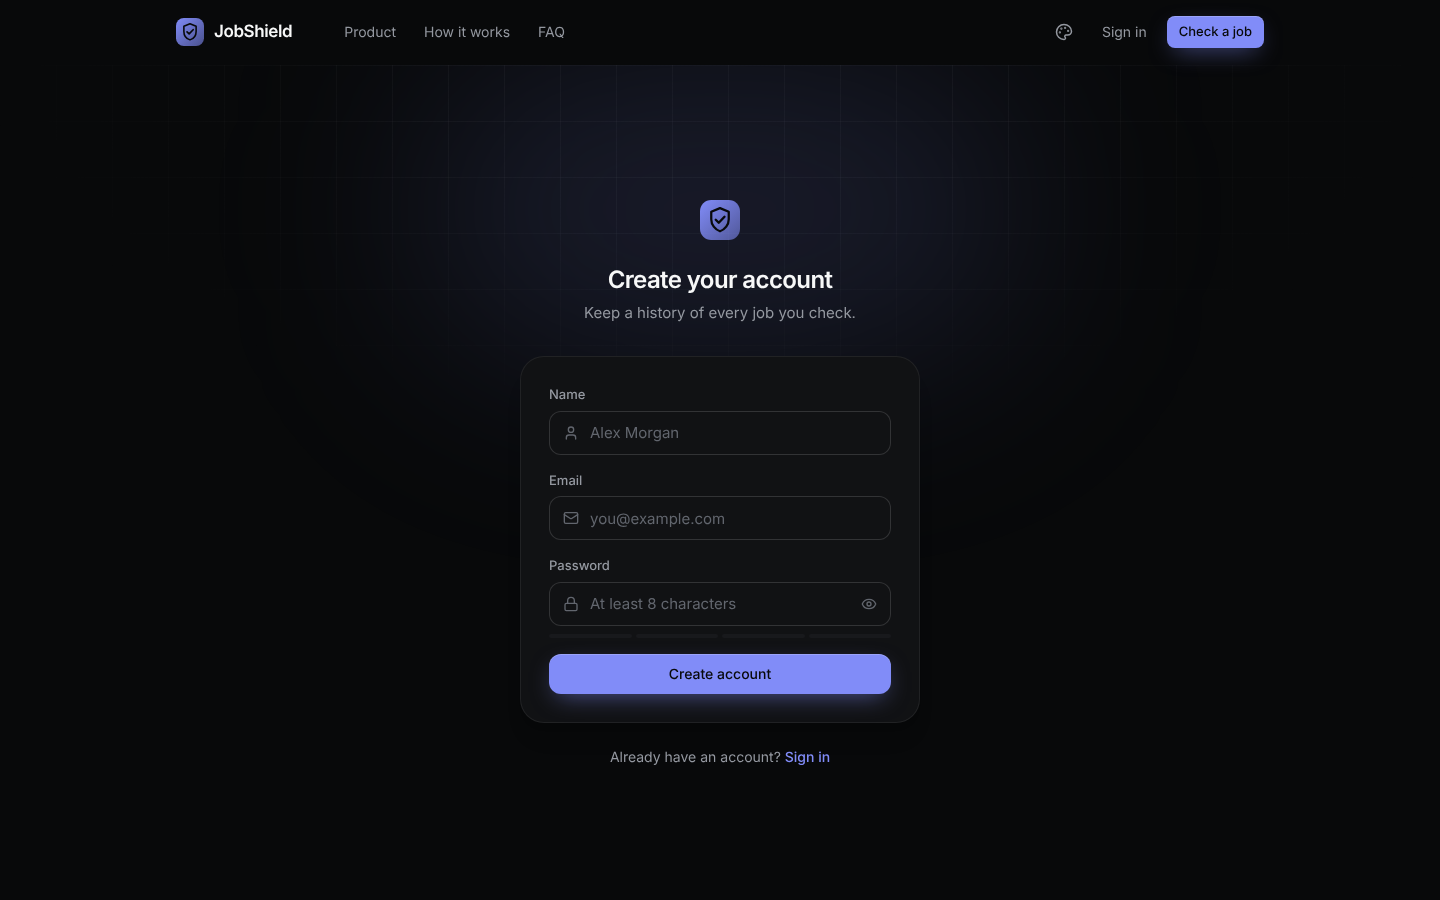
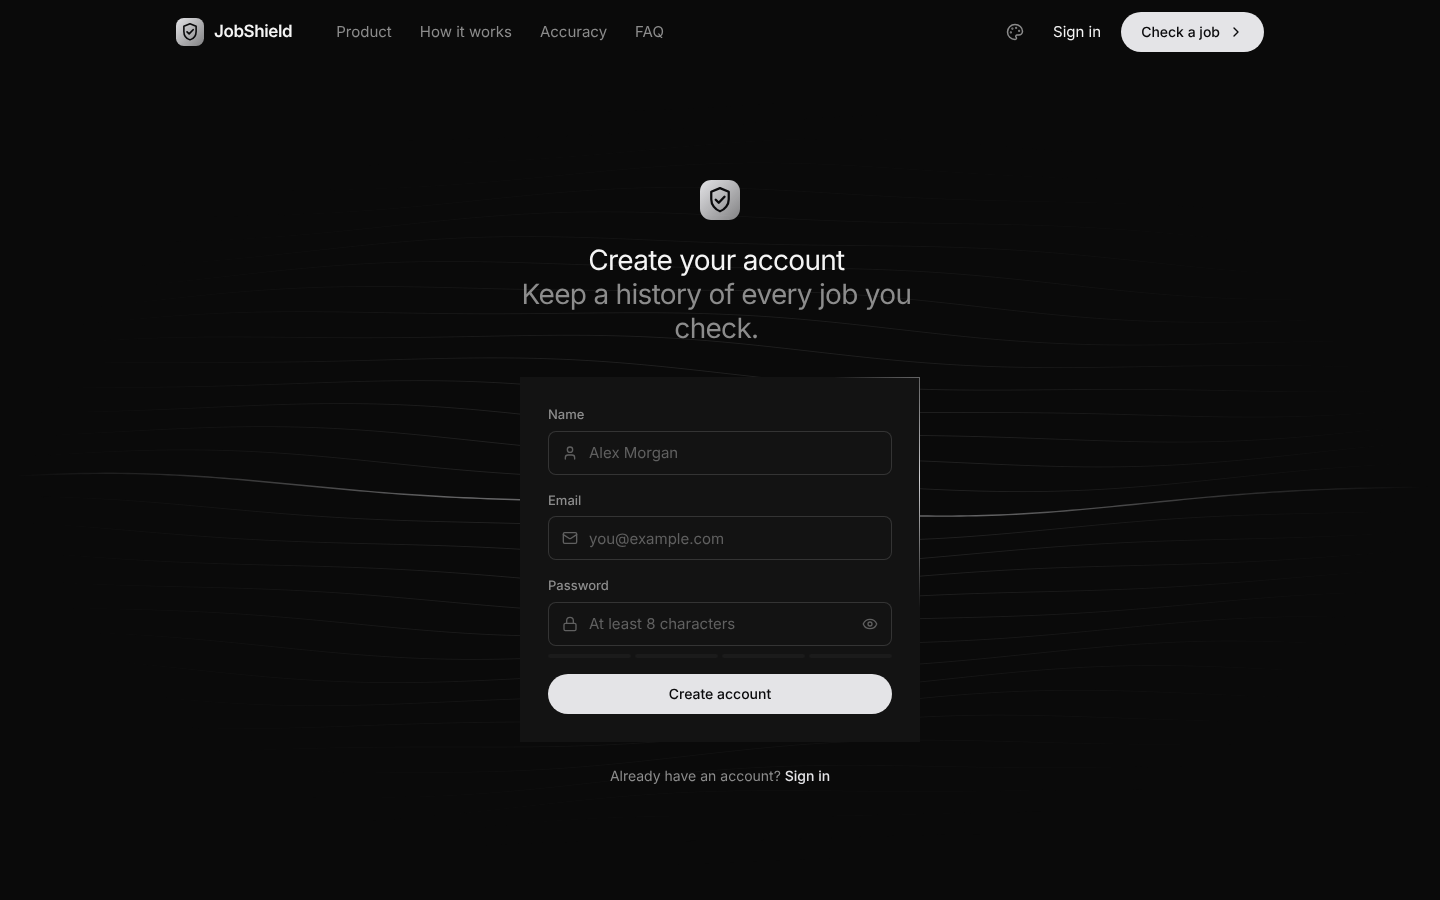
Add all input types to the homepage checker and restyle app pages
- Homepage checker: Link / Text / Screenshot / PDF tabs; uploads open the
  Check a job page on the matching tab.
- Shared editorial PageIntro header (two-tone headline, signal-field
  backdrop, drawn divider) on Check a job, History, Settings and Admin;
  auth and 404 pages use the same signal field and border-beam cards.
- Test setup stubs IntersectionObserver/canvas for the animated pages.

Claude-Session: https://claude.ai/code/session_012R1uQCQ59fuJwwJHrzo2jF

diff --git a/frontend/src/pages/LandingPage.tsx b/frontend/src/pages/LandingPage.tsx
@@ -8,7 +8,9 @@ import {
   CircleAlert,
   CircleCheck,
   CircleX,
+  FileText,
   Globe,
+  ImageIcon,
   Link2,
   Loader2,
   MessageSquareText,
@@ -66,29 +68,65 @@ function useCycle(length: number, ms: number) {
 
 /* ── Hero ─────────────────────────────────────────────────────────────── */
 
+const INPUTS = [
+  { id: 'url', label: 'Link', icon: Link2 },
+  { id: 'text', label: 'Text', icon: MessageSquareText },
+  { id: 'image', label: 'Screenshot', icon: ImageIcon },
+  { id: 'pdf', label: 'PDF', icon: FileText },
+] as const;
+type InputMode = (typeof INPUTS)[number]['id'];
+
 function HeroChecker() {
   const navigate = useNavigate();
-  const [mode, setMode] = useState<'url' | 'text'>('url');
+  const [mode, setMode] = useState<InputMode>('url');
   const [value, setValue] = useState('');
+  const isFile = mode === 'image' || mode === 'pdf';
+
+  function choose(next: InputMode) {
+    // Uploads happen on the Check a job page, opened on the right tab.
+    if (next === 'image' || next === 'pdf') {
+      navigate('/analyze', { state: { mode: next } });
+      return;
+    }
+    setMode(next);
+  }
+
   function submit(e: FormEvent) {
     e.preventDefault();
+    if (isFile) return navigate('/analyze', { state: { mode } });
     navigate('/analyze', { state: { mode, value: value.trim(), autostart: value.trim().length > 0 } });
   }
+
   return (
     <motion.form {...fade} transition={{ ...fade.transition, delay: 0.5 }} onSubmit={submit} className="relative mx-auto mt-12 w-full max-w-2xl">
+      <div className="mb-3 flex flex-wrap justify-center gap-1.5" role="tablist" aria-label="What do you want to check?">
+        {INPUTS.map(({ id, label, icon: Icon }) => (
+          <button
+            key={id}
+            type="button"
+            role="tab"
+            aria-selected={mode === id}
+            onClick={() => choose(id)}
+            className={cn(
+              'relative flex h-9 items-center gap-1.5 rounded-full px-4 text-[13px] transition-colors',
+              mode === id ? 'text-bg' : 'text-fg-muted hover:bg-surface-2 hover:text-fg'
+            )}
+          >
+            {mode === id && <motion.span layoutId="hero-input-pill" className="absolute inset-0 rounded-full bg-fg" transition={{ type: 'spring', bounce: 0.15, duration: 0.45 }} />}
+            <Icon className="relative size-4" />
+            <span className="relative">{label}</span>
+          </button>
+        ))}
+      </div>
       <div className="relative isolate overflow-hidden rounded-full border border-line-strong bg-bg/80 p-1.5 backdrop-blur-xl">
         <BorderBeam duration={9} />
         <div className="flex items-center gap-1">
-          <button type="button" onClick={() => setMode(mode === 'url' ? 'text' : 'url')} className="flex h-10 shrink-0 items-center gap-1.5 rounded-full px-3.5 text-[13px] text-fg-muted transition-colors hover:bg-surface-2 hover:text-fg" aria-label={mode === 'url' ? 'Switch to pasting text' : 'Switch to a job link'}>
-            {mode === 'url' ? <Link2 className="size-4" /> : <MessageSquareText className="size-4" />}
-            <span className="hidden sm:inline">{mode === 'url' ? 'Link' : 'Text'}</span>
-          </button>
           <input
             value={value}
             onChange={(e) => setValue(e.target.value)}
             placeholder={mode === 'url' ? 'Paste a job link — LinkedIn, Indeed, a careers page…' : 'Paste the job post or recruiter message…'}
             aria-label={mode === 'url' ? 'Job link' : 'Job text'}
-            className="h-10 min-w-0 flex-1 bg-transparent px-2 text-[15px] text-fg outline-none placeholder:text-fg-subtle"
+            className="h-10 min-w-0 flex-1 bg-transparent px-4 text-[15px] text-fg outline-none placeholder:text-fg-subtle"
           />
           <button type="submit" className={buttonClasses('primary', 'md', 'shrink-0')}>
             Check it <ChevronRight className="size-4" />

diff --git a/frontend/src/pages/AuthPages.tsx b/frontend/src/pages/AuthPages.tsx
@@ -8,6 +8,7 @@ import { getApiErrorMessage } from '@/api/client';
 import { Alert } from '@/components/ui/Badge';
 import { Button } from '@/components/ui/Button';
 import { Input } from '@/components/ui/Field';
+import { FxCard, SignalField, TwoTone } from '@/components/landing/Effects';
 import { LogoMark } from '@/components/ui/Logo';
 import { useAuthStore } from '@/store/authStore';
 
@@ -16,15 +17,17 @@ const EMAIL_RE = /^[^\s@]+@[^\s@]+\.[^\s@]+$/;
 function AuthShell({ title, subtitle, children, footer }: { title: string; subtitle: string; children: ReactNode; footer: ReactNode }) {
   return (
     <div className="relative flex min-h-[calc(100dvh-4rem)] items-center justify-center overflow-hidden px-4 py-12">
-      <div className="bg-grid mask-radial absolute inset-0 -z-10" aria-hidden />
-      <div className="absolute left-1/2 top-0 -z-10 h-72 w-[600px] -translate-x-1/2 rounded-full bg-accent/15 blur-[110px]" aria-hidden />
+      <div className="absolute inset-0 -z-10 opacity-60 [mask-image:radial-gradient(ellipse_at_center,black_25%,transparent_70%)]" aria-hidden>
+        <SignalField />
+      </div>
       <motion.div initial={{ opacity: 0, y: 16 }} animate={{ opacity: 1, y: 0 }} transition={{ duration: 0.5, ease: [0.16, 1, 0.3, 1] }} className="w-full max-w-[400px]">
         <div className="text-center">
           <LogoMark className="mx-auto size-10" />
-          <h1 className="mt-6 text-2xl font-semibold tracking-tight">{title}</h1>
-          <p className="mt-1.5 text-[15px] text-fg-muted">{subtitle}</p>
+          <TwoTone as="h1" title={title} sub={subtitle} className="mt-6 text-[28px] leading-[1.2]" />
         </div>
-        <div className="mt-8 rounded-3xl border border-line bg-surface p-6 shadow-xl shadow-black/5 sm:p-7">{children}</div>
+        <FxCard className="mt-8 p-6 sm:p-7" beam>
+          {children}
+        </FxCard>
         <p className="mt-6 text-center text-sm text-fg-muted">{footer}</p>
       </motion.div>
     </div>

diff --git a/frontend/src/pages/SettingsPage.tsx b/frontend/src/pages/SettingsPage.tsx
@@ -4,18 +4,19 @@ import { useNavigate } from 'react-router-dom';
 import { toast } from 'sonner';
 import { logoutAll } from '@/api/auth';
 import { getApiErrorMessage } from '@/api/client';
+import { PageIntro } from '@/components/landing/Effects';
 import { ThemeControls } from '@/components/layout/ThemePicker';
 import { Button } from '@/components/ui/Button';
 import { useAuthStore } from '@/store/authStore';
 
 function Section({ title, description, children }: { title: string; description: string; children: React.ReactNode }) {
   return (
-    <section className="grid gap-6 border-t border-line py-8 md:grid-cols-[240px_1fr]">
+    <section className="grid gap-6 border-b border-line py-8 md:grid-cols-[240px_1fr]">
       <div>
         <h2 className="font-medium">{title}</h2>
         <p className="mt-1 text-sm text-fg-muted">{description}</p>
       </div>
-      <div className="rounded-2xl border border-line bg-surface p-5">{children}</div>
+      <div className="bg-surface p-6">{children}</div>
     </section>
   );
 }
@@ -41,9 +42,8 @@ export function SettingsPage() {
 
   return (
     <div className="container-page max-w-4xl py-12 sm:py-16">
-      <h1 className="text-3xl font-semibold tracking-tight">Settings</h1>
-      <p className="mt-1.5 text-fg-muted">Manage your account and how JobShield looks.</p>
-      <div className="mt-10">
+      <PageIntro label="Settings" title="Your account and appearance" sub="saved on this device" />
+      <div>
         <Section title="Appearance" description="Choose light or dark mode and an accent colour. Saved on this device.">
           <ThemeControls />
         </Section>

diff --git a/frontend/src/pages/AnalyzePage.tsx b/frontend/src/pages/AnalyzePage.tsx
@@ -8,6 +8,7 @@ import { submitFile, submitText, submitUrl } from '@/api/analysis';
 import { getApiErrorMessage } from '@/api/client';
 import { Button } from '@/components/ui/Button';
 import { Alert } from '@/components/ui/Badge';
+import { PageIntro } from '@/components/landing/Effects';
 import { cn } from '@/lib/cn';
 import type { Analysis } from '@/types';
 
@@ -130,7 +131,7 @@ function normalizeUrl(raw: string) {
 }
 
 interface PrefillState {
-  mode?: 'url' | 'text';
+  mode?: Mode;
   value?: string;
   autostart?: boolean;
 }
@@ -212,13 +213,8 @@ export function AnalyzePage() {
 
   return (
     <div className="relative">
-      <div className="bg-grid mask-radial absolute inset-x-0 top-0 -z-10 h-[480px]" aria-hidden />
       <div className="container-page max-w-3xl py-14 sm:py-20">
-        <motion.div initial={{ opacity: 0, y: 12 }} animate={{ opacity: 1, y: 0 }} className="text-center">
-          <h1 className="text-gradient text-4xl font-semibold tracking-[-0.035em] sm:text-5xl">Check a job</h1>
-          <p className="mx-auto mt-3 max-w-lg text-[17px] text-fg-muted">Share the posting however you received it. You’ll get a verdict, the evidence behind it, and what to do next.</p>
-        </motion.div>
-
+        <PageIntro label="Check a job" title="Share it however you received it" sub="get a verdict and the evidence behind it" />
         <div className="mt-10">
           <AnimatePresence mode="wait">
             {busy ? (

diff --git a/frontend/src/components/landing/Effects.tsx b/frontend/src/components/landing/Effects.tsx
@@ -434,3 +434,29 @@ export function WaveArt() {
     </Art>
   );
 }
+
+/* ── App page header ──────────────────────────────────────────────────── */
+
+/** Editorial header for app pages, matching the landing page's sections. */
+export function PageIntro({ label, title, sub, children, field = true }: { label: string; title: string; sub?: string; children?: ReactNode; field?: boolean }) {
+  return (
+    <div className="relative">
+      {field && (
+        <div className="pointer-events-none absolute inset-x-0 -top-10 -z-10 h-72 opacity-50 [mask-image:radial-gradient(ellipse_at_top,black_20%,transparent_70%)]" aria-hidden>
+          <SignalField />
+        </div>
+      )}
+      <div className="flex flex-wrap items-end justify-between gap-6 pb-10">
+        <div>
+          <motion.p initial={{ opacity: 0, x: -10 }} animate={{ opacity: 1, x: 0 }} transition={{ duration: 0.6 }} className="mb-5 flex items-center gap-2.5 text-[14px] text-fg-muted">
+            <span className="size-1.5 rounded-full bg-accent shadow-[0_0_12px_rgb(var(--accent))]" />
+            {label}
+          </motion.p>
+          <TwoTone as="h1" title={title} sub={sub} className="text-[32px] leading-[1.15] sm:text-[40px]" />
+        </div>
+        {children}
+      </div>
+      <Divider />
+    </div>
+  );
+}

diff --git a/frontend/src/pages/NotFoundPage.tsx b/frontend/src/pages/NotFoundPage.tsx
@@ -1,14 +1,16 @@
+import { SignalField, TwoTone } from '@/components/landing/Effects';
 import { ButtonLink } from '@/components/ui/Button';
 
 export function NotFoundPage() {
   return (
     <div className="relative flex min-h-[70vh] items-center justify-center overflow-hidden px-4 text-center">
-      <div className="bg-grid mask-radial absolute inset-0 -z-10" aria-hidden />
+      <div className="absolute inset-0 -z-10 opacity-60 [mask-image:radial-gradient(ellipse_at_center,black_25%,transparent_70%)]" aria-hidden>
+        <SignalField />
+      </div>
       <div>
-        <p className="font-mono text-sm text-accent">404</p>
-        <h1 className="text-gradient mt-3 text-4xl font-semibold tracking-tight sm:text-5xl">This page doesn’t exist.</h1>
-        <p className="mx-auto mt-3 max-w-md text-fg-muted">The link may be broken, or the page may have moved.</p>
-        <div className="mt-8 flex justify-center gap-3">
+        <p className="font-mono text-sm text-fg-muted">404</p>
+        <TwoTone as="h1" title="This page doesn’t exist." sub="The link may be broken, or the page may have moved." className="mt-4 text-[32px] leading-[1.2] sm:text-[44px]" />
+        <div className="mt-10 flex justify-center gap-3">
           <ButtonLink to="/">Go home</ButtonLink>
           <ButtonLink to="/analyze" variant="secondary">Check a job</ButtonLink>
         </div>

diff --git a/frontend/src/pages/ReportPage.tsx b/frontend/src/pages/ReportPage.tsx
@@ -50,7 +50,7 @@ function Panel({ title, icon, children, className, aside }: { title: string; ico
       className={cn('rounded-3xl border border-line bg-surface p-6 sm:p-7', className)}
     >
       <div className="mb-5 flex items-center justify-between gap-3">
-        <h2 className="flex items-center gap-2 text-[15px] font-semibold tracking-tight">
+        <h2 className="flex items-center gap-2 text-[17px] font-normal tracking-[-0.01em]">
           {icon && <span className="text-accent">{icon}</span>}
           {title}
         </h2>
@@ -250,7 +250,7 @@ export function ReportView({ analysis }: { analysis: Analysis }) {
               <Badge tone="neutral">{analysis.confidence[0].toUpperCase() + analysis.confidence.slice(1)} confidence</Badge>
               <Badge tone="neutral">{INPUT_COPY[analysis.inputType]}</Badge>
             </div>
-            <h1 className="mt-4 text-2xl font-semibold leading-snug tracking-tight sm:text-[28px]">{analysis.summary}</h1>
+            <h1 className="mt-4 text-[24px] font-normal leading-[1.3] tracking-[-0.02em] sm:text-[30px]">{analysis.summary}</h1>
 
             <div className="mt-6 grid gap-3 sm:grid-cols-2">
               <div className="flex items-center gap-3 rounded-2xl border border-line bg-bg-subtle p-3.5">

diff --git a/frontend/src/pages/HistoryPage.tsx b/frontend/src/pages/HistoryPage.tsx
@@ -7,6 +7,7 @@ import { listHistory } from '@/api/analysis';
 import { getApiErrorMessage } from '@/api/client';
 import { Alert, Badge, Skeleton } from '@/components/ui/Badge';
 import { Button, ButtonLink } from '@/components/ui/Button';
+import { PageIntro } from '@/components/landing/Effects';
 import { cn } from '@/lib/cn';
 import { VERDICT_COPY } from '@/lib/verdict';
 import type { Verdict } from '@/types';
@@ -31,13 +32,9 @@ export function HistoryPage() {
 
   return (
     <div className="container-page max-w-4xl py-12 sm:py-16">
-      <div className="flex flex-wrap items-end justify-between gap-4">
-        <div>
-          <h1 className="text-3xl font-semibold tracking-tight">History</h1>
-          <p className="mt-1.5 text-fg-muted">Every job you’ve checked while signed in.</p>
-        </div>
-        <ButtonLink to="/analyze" size="sm">Check a job</ButtonLink>
-      </div>
+      <PageIntro label="History" title="Every job you’ve checked" sub="saved while you were signed in">
+        <ButtonLink to="/analyze">Check a job</ButtonLink>
+      </PageIntro>
 
       <div className="mt-8 flex flex-wrap gap-1.5" role="tablist" aria-label="Filter by verdict">
         {FILTERS.map((f) => (

diff --git a/frontend/src/pages/AdminPage.tsx b/frontend/src/pages/AdminPage.tsx
@@ -4,6 +4,7 @@ import { useMemo, useState } from 'react';
 import { getAdminStats, listAdminUsers } from '@/api/admin';
 import { getApiErrorMessage } from '@/api/client';
 import { Alert, Badge, Skeleton } from '@/components/ui/Badge';
+import { PageIntro } from '@/components/landing/Effects';
 import { Button } from '@/components/ui/Button';
 import { Input } from '@/components/ui/Field';
 
@@ -35,8 +36,7 @@ export function AdminPage() {
 
   return (
     <div className="container-page max-w-5xl py-12 sm:py-16">
-      <h1 className="text-3xl font-semibold tracking-tight">Admin</h1>
-      <p className="mt-1.5 text-fg-muted">Platform usage at a glance.</p>
+      <PageIntro label="Admin" title="Platform usage" sub="at a glance" />
       {error && (
         <div className="mt-6">
           <Alert>{getApiErrorMessage(error)}</Alert>

diff --git a/frontend/src/test/setup.ts b/frontend/src/test/setup.ts
@@ -1,1 +1,23 @@
 import '@testing-library/jest-dom/vitest';
+
+// jsdom lacks the browser APIs the scroll animations and canvas effects use.
+class MockIntersectionObserver {
+  observe() {}
+  unobserve() {}
+  disconnect() {}
+  takeRecords() {
+    return [];
+  }
+}
+globalThis.IntersectionObserver ??= MockIntersectionObserver as unknown as typeof IntersectionObserver;
+HTMLCanvasElement.prototype.getContext = (() => null) as unknown as HTMLCanvasElement['getContext'];
+window.matchMedia ??= ((query: string) => ({
+  matches: false,
+  media: query,
+  onchange: null,
+  addEventListener() {},
+  removeEventListener() {},
+  addListener() {},
+  removeListener() {},
+  dispatchEvent: () => false,
+})) as unknown as typeof window.matchMedia;
